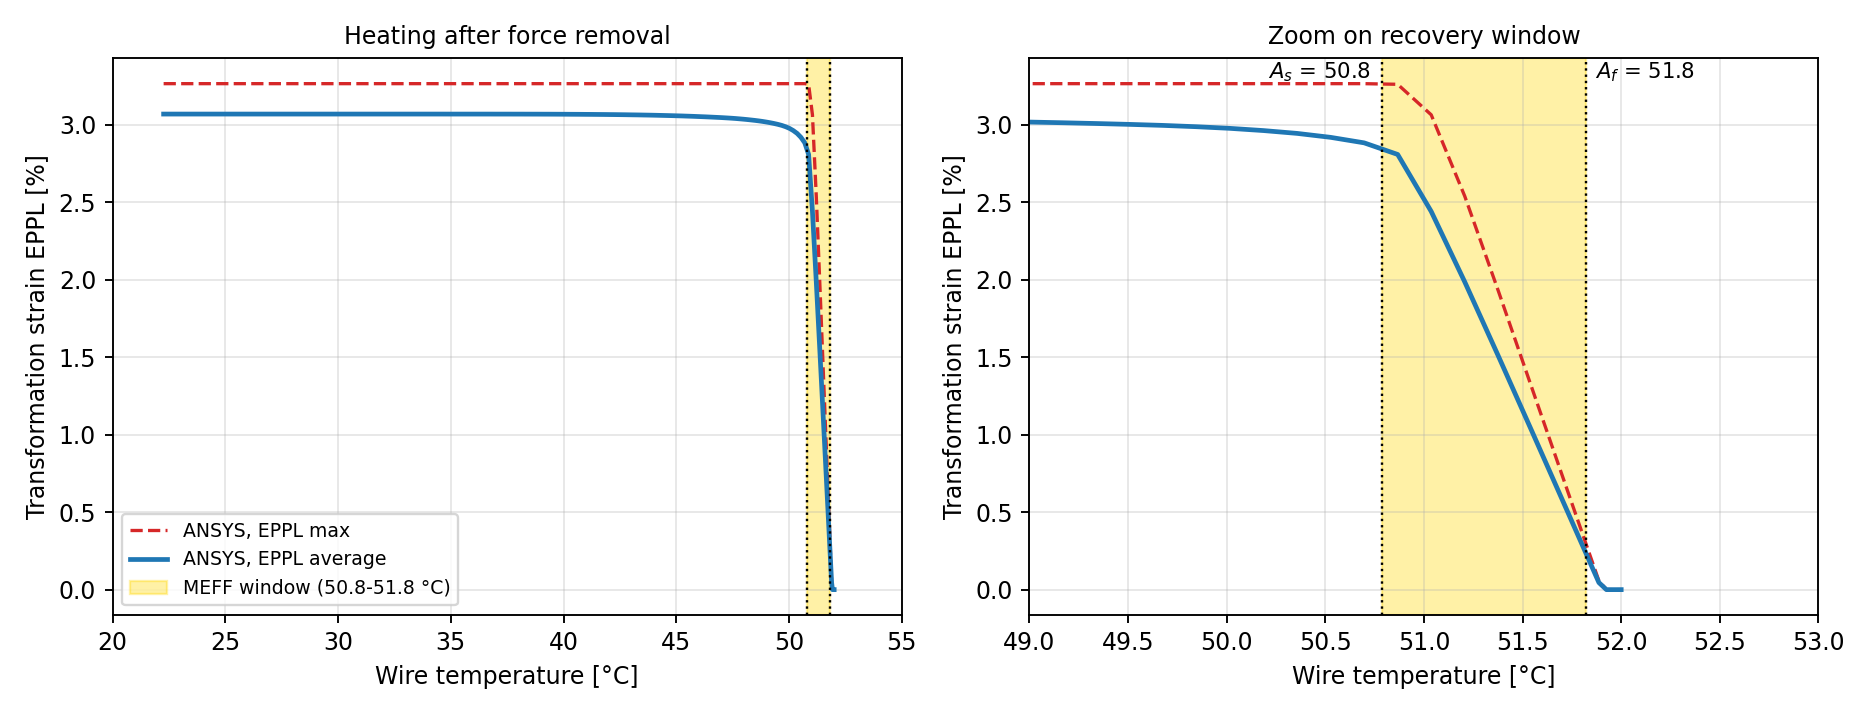
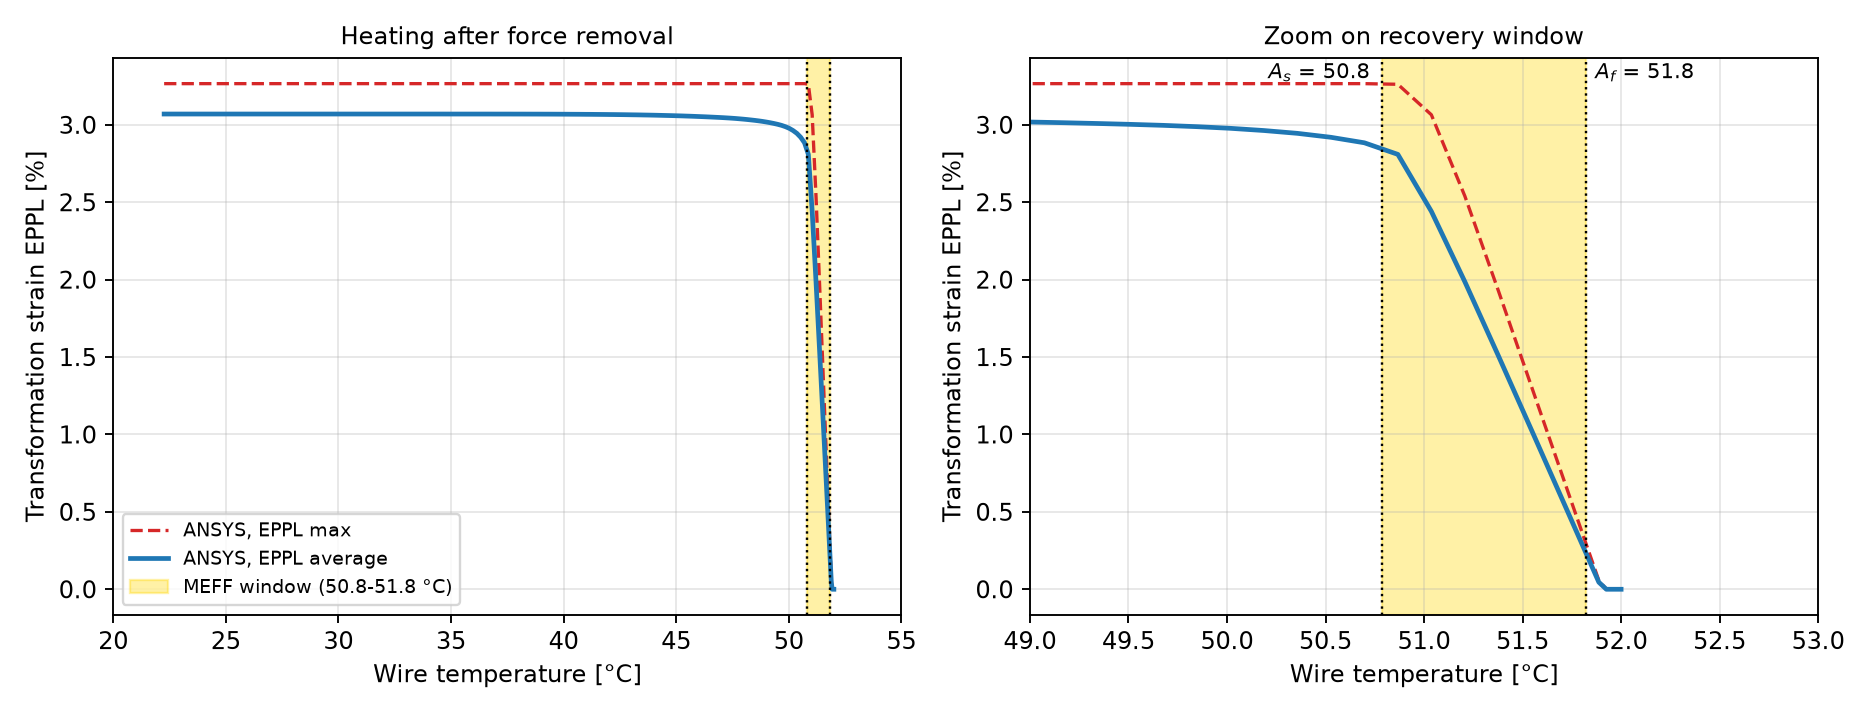
up

diff --git a/src/fig_meff_window.py b/src/fig_meff_window.py
@@ -2,7 +2,7 @@
 Data: ANSYS standalone 3D wire, heating step (T 22.3 -> 52 C). Lines: closed-form As, Af (Auricchio & Petrini 2004).
   As = T0 + (R - H*eps_L)/beta ,  Af = T0 + R/beta
 """
-import numpy as np, pandas as pd
+import pandas as pd
 import matplotlib; matplotlib.use("Agg")
 import matplotlib.pyplot as plt
 from pathlib import Path
